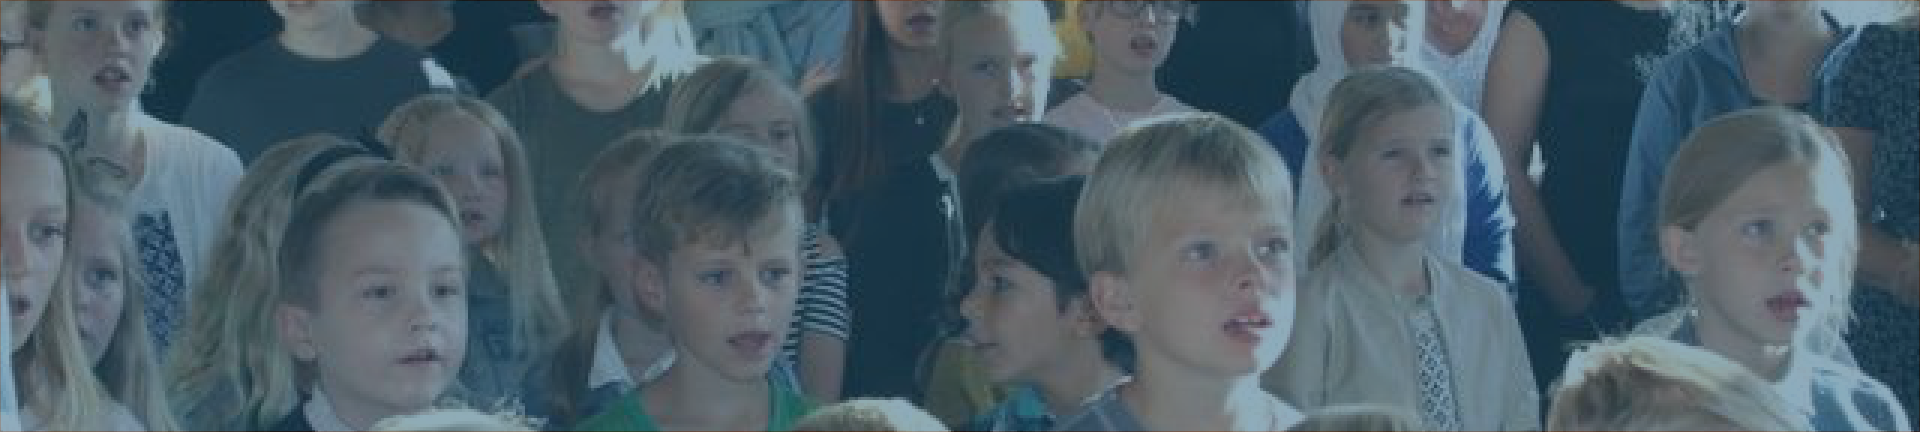
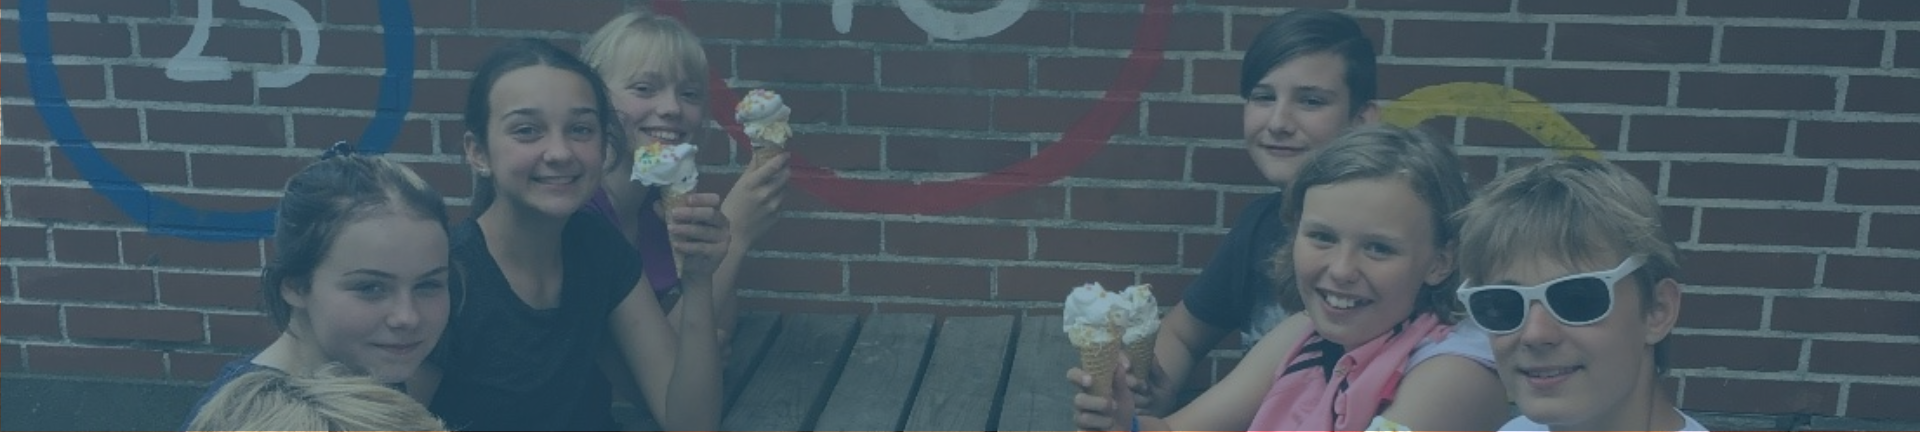
css and html for slideshow

diff --git a/index.html b/index.html
@@ -10,7 +10,7 @@
     <link href="https://fonts.googleapis.com/css?family=Kalam" rel="stylesheet">
     <title>Billum Friskole | En friskole med fokus på tryghed, nærvær og fællesskab</title>
   </head>
-  <body onload="navOpen(); navClose();">
+  <body onload="navOpen(); navClose(); slideShow()">
 
     <nav class="normal-nav">
       <div class="billede-container">
@@ -81,8 +81,20 @@
       </div>
     </div>
 
-    <header>
-      <div class="billede-overlay indexURL">
+    <header class="slideshow-container">
+      <div class="slides fade">
+        <img src="assets/images/indexBillede.png" alt="Slideshow billede 1" class="slideshow-billeder">
+      </div>
+
+      <div class="slides fade">
+        <img src="assets/images/omskolen.png" alt="Slideshow billede 1" class="slideshow-billeder">
+      </div>
+
+      <div class="slides fade">
+        <img src="assets/images/certificeret.png" alt="Slideshow billede 1" class="slideshow-billeder">
+      </div>
+
+      <div class="headline">
         <h1 class="hero-headline">Velkommen til Billum Friskole!</h1>
       </div>
     </header>
@@ -115,7 +127,9 @@
           <div class="sfo-information">
             <h2>SFO</h2>
             <p>På Billum Friskole har dit barn også mulighed for at komme i SFO. Dit barn vil få alle muligheder for at kunne udfolde sine kreative idéer. I SFO'en bliver naturen inddraget, der vil blive leget i idrætshallen samt en masse indendørs aktiviteter.</p>
-            <a href="sfoboernehave.html" class="button">Læs om SFO</a>
+            <div class="index-button">
+              <a href="sfoboernehave.html" class="button">Læs om SFO</a>
+            </div>
           </div>
 
           <div class="sfo-billede">
@@ -127,7 +141,9 @@
           <div class="sfo-information">
             <h2>Børnehave</h2>
             <p>Har dit barn brug for en børnehave? Til sommer 2018 starter Billum Friskole op. Børnehaven ligger lige ved siden af friskolen og SFO’en. Her vil dit barn have rig mulighed for at lege ude i naturen som børn burde.</p>
-            <a href="sfoboernehave.html" class="button">Læs om børnehave</a>
+            <div class="index-button">
+              <a href="sfoboernehave.html" class="button">Læs om børnehave</a>
+            </div>
           </div>
 
           <div class="sfo-billede">

diff --git a/vaerdigrundlag.html b/vaerdigrundlag.html
@@ -92,16 +92,18 @@
     <main>
       <section class="vaerdier-sektion">
         <h2>Værdier for Billum Friskole</h2>
-        <ul>
-          <li>Vi er en fællesskabsorienteret skole</li>
-          <li>Intet over - intet ved siden af fællesskabet. Kun i fællesskabet med andre kan det enkelte menneske lære sig selv at kende. Den som kun kigger i sin    navle finder allerhøjest nullermænd</li>
-          <li>Vi skal lave en skole hvor børnene bliver gode til at begå sig som mennesker.</li>
-          <li>Vi skal lave en skole hvor børn bliver fagligt dygtige.</li>
-          <li>Vi skal lave en skole hvor der er trygt at være.</li>
-          <li>Vi skal lave en skole hvor børn får succes med kreative fag.</li>
-          <li>Vi skal lave en skole hvor den lokale kultur og natur udnyttes til at skabe selvværd og stolthed.</li>
-          <li>Vi skal lave en skole hvor skoleleder, lærere og øvrigt personale er rollemodeller.</li>
-        </ul>
+        <div class="vaerdigrundlag-container">
+          <ul>
+            <li>Vi er en fællesskabsorienteret skole</li>
+            <li>Intet over - intet ved siden af fællesskabet. Kun i fællesskabet med andre kan det enkelte menneske lære sig selv at kende. Den som kun kigger i sin    navle finder allerhøjest nullermænd</li>
+            <li>Vi skal lave en skole hvor børnene bliver gode til at begå sig som mennesker.</li>
+            <li>Vi skal lave en skole hvor børn bliver fagligt dygtige.</li>
+            <li>Vi skal lave en skole hvor der er trygt at være.</li>
+            <li>Vi skal lave en skole hvor børn får succes med kreative fag.</li>
+            <li>Vi skal lave en skole hvor den lokale kultur og natur udnyttes til at skabe selvværd og stolthed.</li>
+            <li>Vi skal lave en skole hvor skoleleder, lærere og øvrigt personale er rollemodeller.</li>
+          </ul>
+        </div>
       </section>
     </main>
 

diff --git a/assets/css/styles.css b/assets/css/styles.css
@@ -491,12 +491,13 @@ input.button.submitbutton:focus {
 
 .flex-priser {
   display: flex;
+  justify-content: center;
 }
 
 .priser-ssb {
   text-align: center;
   color: #BF4C2B;
-  flex: 1;
+  margin: 20px;
 }
 
 .priser-sektion a {
@@ -710,12 +711,15 @@ input.button.submitbutton:focus {
 .vaerdier-sektion ul {
     background-color: #BF4C2B;
     width: 80%;
-    margin-left: 20px;
 }
 
 .vaerdier-sektion li {
   padding: 10px;
   color: white;
+}
+
+.vaerdigrundlag-container {
+  margin-left: 20px;
 }
 
 /* VEDTÆGTER STYLES
@@ -755,9 +759,34 @@ footer {
 
 /* INDEX STYLES
 ************************************* */
-.indexURL {
+/*.indexURL {
   background-image: url("../../assets/images/indexBillede.png");
+}*/
+
+.slideshow-container {
+  max-width: 100%;
+  position: relative;
 }
+
+.slides {
+  display: none;
+}
+
+.fade {
+  animation-name: fade;
+  animation-duration: 1s;
+}
+
+.slideshow-billeder {
+  height: 22.3vw;
+  width: 100%;
+}
+
+@keyframes fade {
+  from {opacity: .4}
+  to {opacity: 1}
+}
+
 
 .friskolentext {
   text-align: center;
@@ -806,7 +835,6 @@ footer {
 
 .tekstsfobh {
   display: flex;
-  align-items: flex-start;
   margin-top: 30px;
 }
 
@@ -979,7 +1007,19 @@ Responsiv index
   .hero-headline {
     font-size: 22px;
   }
+}
 
+@media screen and (max-width: 700px) {
+  .sfo-information h2, .sfo-information p {
+    text-align: center;
+    width: 100%;
+  }
+
+  .index-button {
+    width: 100%;
+    margin: auto;
+    text-align: center;
+  }
 }
 
 /*
